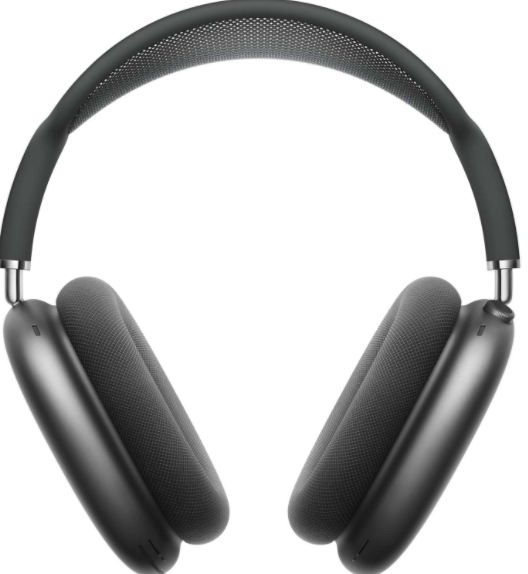
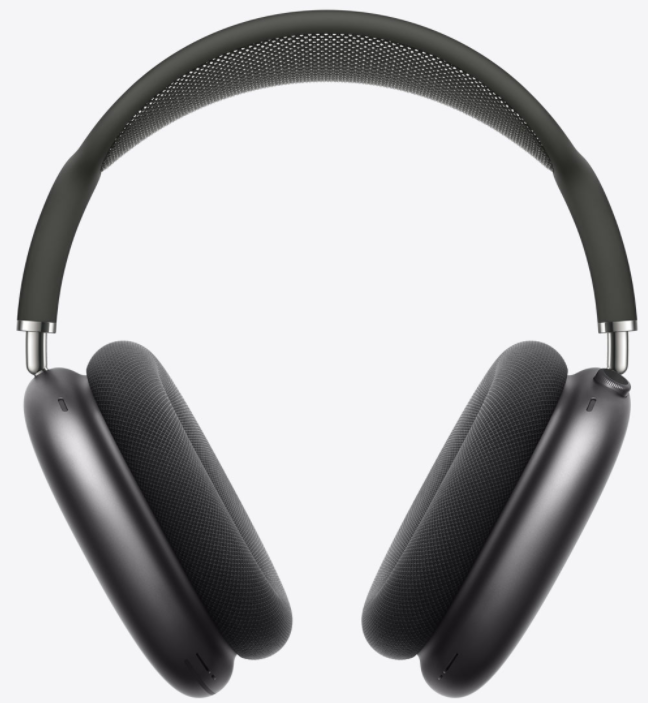
small style fixes

diff --git a/src/pages/Home.js b/src/pages/Home.js
@@ -7,7 +7,7 @@ import { BsPlay } from "react-icons/bs";
 
 import SilverPic from "../components/Silver/SilverPic";
 import VideoPage from "../components/Video/VideoPage";
-import { useHooks } from "../useHooks";
+import { useHooks } from "../hooks/useHooks";
 
 const Home = () => {
   const {
@@ -193,6 +193,7 @@ const Div = styled.div`
 const Img = styled.img`
   width: 390px;
   position: absolute;
+  border-radius: 100px;
   left: 155px;
   top: 100px;
   cursor: pointer;
@@ -216,8 +217,9 @@ const Section = styled.header`
 
   div {
     img {
+      margin-top: 10px;
       border-radius: 50%;
-      width: 60px;
+      width: 30px;
       cursor: pointer;
       transition: all 0.4s ease-in-out;
 
@@ -227,7 +229,7 @@ const Section = styled.header`
     }
     h5 {
       color: #b5b6b8;
-      font-size: 20px;
+      font-size: 18px;
       font-weight: 500;
     }
   }

diff --git a/src/pages/GrayPage.js b/src/pages/GrayPage.js
@@ -7,7 +7,7 @@ import { BsPlay } from "react-icons/bs";
 
 import GrayPic from "../components/Gray/GrayPic";
 import VideoPage from "../components/Video/VideoPage";
-import { useHooks } from "../useHooks";
+import { useHooks } from "../hooks/useHooks";
 
 const GrayPage = () => {
   const {
@@ -189,6 +189,7 @@ const Div = styled.div`
 const Img = styled.img`
   width: 390px;
   position: absolute;
+  border-radius: 100px;
   left: 155px;
   top: 100px;
   cursor: pointer;
@@ -212,8 +213,9 @@ const Section = styled.header`
 
   div {
     img {
+      margin-top: 10px;
       border-radius: 50%;
-      width: 60px;
+      width: 30px;
       cursor: pointer;
       transition: all 0.4s ease-in-out;
 
@@ -223,7 +225,7 @@ const Section = styled.header`
     }
     h5 {
       color: #b5b6b8;
-      font-size: 20px;
+      font-size: 18px;
       font-weight: 500;
     }
   }

diff --git a/src/pages/PinkPage.js b/src/pages/PinkPage.js
@@ -7,7 +7,7 @@ import { BsPlay } from "react-icons/bs";
 
 import PinkPic from "../components/Pink/PinkPic";
 import VideoPage from "../components/Video/VideoPage";
-import { useHooks } from "../useHooks";
+import { useHooks } from "../hooks/useHooks";
 
 const PinkPage = () => {
   const {
@@ -193,6 +193,7 @@ const Div = styled.div`
 const Img = styled.img`
   width: 390px;
   position: absolute;
+  border-radius: 100px;
   left: 155px;
   top: 100px;
   cursor: pointer;
@@ -216,8 +217,9 @@ const Section = styled.header`
 
   div {
     img {
+      margin-top: 10px;
       border-radius: 50%;
-      width: 60px;
+      width: 30px;
       cursor: pointer;
       transition: all 0.4s ease-in-out;
 
@@ -227,7 +229,7 @@ const Section = styled.header`
     }
     h5 {
       color: #b5b6b8;
-      font-size: 20px;
+      font-size: 18px;
       font-weight: 500;
     }
   }

diff --git a/src/App.js b/src/App.js
@@ -9,7 +9,7 @@ import PinkPage from "./pages/PinkPage";
 import Products from "./pages/Products";
 
 import { AnimatePresence } from "framer-motion";
-import { GlobalContext } from "./useContext";
+import { GlobalContext } from "./context/useContext";
 import Navbar from "./components/Navbar/Navbar";
 
 const App = () => {

diff --git a/src/hooks/useHooks.js b/src/hooks/useHooks.js
@@ -1,5 +1,5 @@
 import { useContext } from "react";
-import { GlobalContext } from "./useContext";
+import { GlobalContext } from "../context/useContext";
 
 export const useHooks = () => {
   const {

diff --git a/src/components/Silver/SilverPic.js b/src/components/Silver/SilverPic.js
@@ -46,7 +46,7 @@ const Div = styled.div `
     right: 450px;
     top: 30px;
     z-index: 3;
-    color: #fff;
+    color: #000;
     cursor: pointer;
     transition: all 0.4s ease-in-out;
 

diff --git a/src/components/Gray/GrayPic.js b/src/components/Gray/GrayPic.js
@@ -39,7 +39,7 @@ const Div = styled.div`
     right: 450px;
     top: 30px;
     z-index: 3;
-    color: #fff;
+    color: #000;
     cursor: pointer;
     transition: all 0.4s ease-in-out;
 

diff --git a/src/components/Pink/PinkPic.js b/src/components/Pink/PinkPic.js
@@ -39,7 +39,7 @@ const Div = styled.div`
     right: 450px;
     top: 30px;
     z-index: 3;
-    color: #fff;
+    color: #000;
     cursor: pointer;
     transition: all 0.4s ease-in-out;
 

diff --git a/src/index.css b/src/index.css
@@ -2,6 +2,7 @@
   margin: 0;
   padding: 0;
   box-sizing: border-box;
+  background: #f5f5f7;
   font-family: "Poppins", sans-serif;
 }
 
